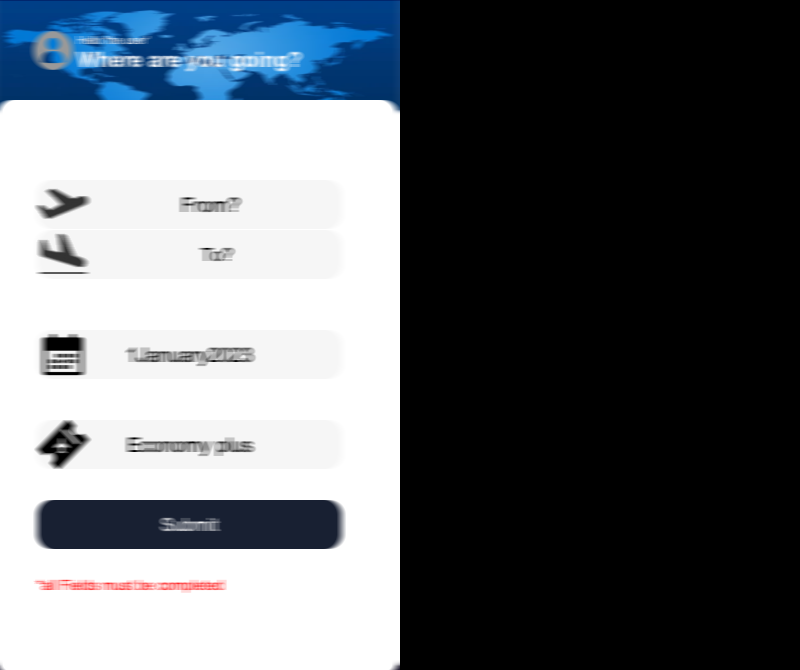
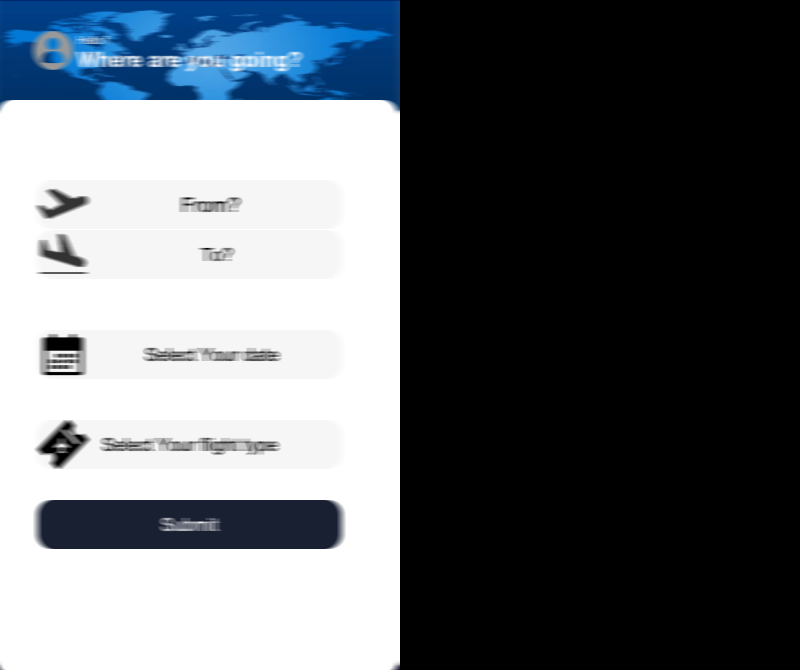
welcome menu added and bug fixed

diff --git a/src/app/UI/DateSelectMenu.java b/src/app/UI/DateSelectMenu.java
@@ -46,13 +46,15 @@ public class DateSelectMenu extends JPanel {
         datePanel.setBounds(0, (firstMenu.getHeight() / 10) * 7, firstMenu.getWidth(), (firstMenu.getHeight() / 10) * 3);
         datePanel.setLayout(null);
         // day top button
-        RoundedButton topDay = new RoundedButton("⬆", new Color(0xf6f6f6), Color.black, 21);
+        RoundedButton topDay = new RoundedButton("⬆",30, new Color(0xf6f6f6), Color.black, 21);
         topDay.setBounds(0, 10, (firstMenu.getWidth() / 3)-8, (datePanel.getHeight() / 3) - 28);
         topDay.addActionListener(new ActionListener() {
             @Override
             public void actionPerformed(ActionEvent e) {
-                if (day<31) day++;
-                else day=1;
+                if((month ==3||month ==5||month ==8||month ==10)&&day>=30)day=1;
+                else if ((month==1)&&day>=28)day=1;
+                else if ((month==0||month==2||month==4||month==6||month==7||month==9||month==11)&&day>=31)day=1;
+                else day++;
                 dayLabel.setText(String.valueOf(day));
 
             }
@@ -65,27 +67,33 @@ public class DateSelectMenu extends JPanel {
         dayLabel.setBounds(0,  (datePanel.getHeight() / 3)- 14, (firstMenu.getWidth() / 3)-8, (datePanel.getHeight() / 3) - 28);
         datePanel.add(dayLabel);
         // day bot button
-        RoundedButton botDay = new RoundedButton("⬇", new Color(0xf6f6f6), Color.black, 21);
+        RoundedButton botDay = new RoundedButton("⬇",30, new Color(0xf6f6f6), Color.black, 21);
         botDay.setBounds(0,  (datePanel.getHeight() / 3)*2- 42, (firstMenu.getWidth() / 3)-8 , (datePanel.getHeight() / 3) - 28);
         botDay.addActionListener(new ActionListener() {
             @Override
             public void actionPerformed(ActionEvent e) {
-                if (day>1) day--;
-                else day=31;
+                if((month ==3||month ==5||month ==8||month ==10)&&day==1)day=30;
+                else if ((month==1)&&day==1)day=28;
+                else if ((month==0||month==2||month==4||month==6||month==7||month==9||month==11)&&day==1)day=31;
+                else day--;
                 dayLabel.setText(String.valueOf(day));
             }
         });
         datePanel.add(botDay);
 
         // month top button
-        RoundedButton topMonth = new RoundedButton("⬆", new Color(0xf6f6f6), Color.black, 21);
+        RoundedButton topMonth = new RoundedButton("⬆",30, new Color(0xf6f6f6), Color.black, 21);
         topMonth.setBounds((firstMenu.getWidth() / 3)+4, 10, (firstMenu.getWidth() / 3)-8, (datePanel.getHeight() / 3) - 28);
         topMonth.addActionListener(new ActionListener() {
             @Override
             public void actionPerformed(ActionEvent e) {
                 if (month<11) month++;
                 else month=0;
+                if((month ==3||month ==5||month ==8||month ==10)&&day>30)day=30;
+                else if ((month==1)&&day>28)day=28;
+                else if ((month==0||month==2||month==4||month==6||month==7||month==9||month==11)&&day>31)day=31;
                 monthLabel.setText(months[month]);
+                dayLabel.setText(String.valueOf(day));
 
             }
         });
@@ -97,20 +105,24 @@ public class DateSelectMenu extends JPanel {
         monthLabel.setBounds((firstMenu.getWidth() / 3)+4,  (datePanel.getHeight() / 3)- 14, (firstMenu.getWidth() / 3)-8, (datePanel.getHeight() / 3) - 28);
         datePanel.add(monthLabel);
         // month bot button
-        RoundedButton botMonth = new RoundedButton("⬇", new Color(0xf6f6f6), Color.black, 21);
+        RoundedButton botMonth = new RoundedButton("⬇",30, new Color(0xf6f6f6), Color.black, 21);
         botMonth.setBounds((firstMenu.getWidth() / 3)+4,  (datePanel.getHeight() / 3)*2- 42, (firstMenu.getWidth() / 3)-8 , (datePanel.getHeight() / 3) - 28);
         botMonth.addActionListener(new ActionListener() {
             @Override
             public void actionPerformed(ActionEvent e) {
                 if (month>0) month--;
                 else month =11;
+                if((month ==3||month ==5||month ==8||month ==10)&&day>30)day=30;
+                else if ((month==1)&&day>28)day=28;
+                else if ((month==0||month==2||month==4||month==6||month==7||month==9||month==11)&&day>31)day=31;
                 monthLabel.setText(months[month]);
+                dayLabel.setText(String.valueOf(day));
             }
         });
         datePanel.add(botMonth);
 
         // year top button
-        RoundedButton topYear = new RoundedButton("⬆", new Color(0xf6f6f6), Color.black, 21);
+        RoundedButton topYear = new RoundedButton("⬆",30, new Color(0xf6f6f6), Color.black, 21);
         topYear.setBounds((firstMenu.getWidth() / 3)*2, 10, (firstMenu.getWidth() / 3)-8, (datePanel.getHeight() / 3) - 28);
         topYear.addActionListener(new ActionListener() {
             @Override
@@ -128,7 +140,7 @@ public class DateSelectMenu extends JPanel {
         yearLabel.setBounds((firstMenu.getWidth() / 3)*2,  (datePanel.getHeight() / 3)- 14, (firstMenu.getWidth() / 3)-8, (datePanel.getHeight() / 3) - 28);
         datePanel.add(yearLabel);
         // year bot button
-        RoundedButton botYear = new RoundedButton("⬇", new Color(0xf6f6f6), Color.black, 21);
+        RoundedButton botYear = new RoundedButton("⬇",30, new Color(0xf6f6f6), Color.black, 21);
         botYear.setBounds((firstMenu.getWidth() / 3)*2,  (datePanel.getHeight() / 3)*2- 42, (firstMenu.getWidth() / 3)-8 , (datePanel.getHeight() / 3) - 28);
         botYear.addActionListener(new ActionListener() {
             @Override
@@ -140,7 +152,7 @@ public class DateSelectMenu extends JPanel {
         datePanel.add(botYear);
 
         //submit button
-        RoundedButton submitButton = new RoundedButton("Submit", new Color(0x192032), Color.white, 21);
+        RoundedButton submitButton = new RoundedButton("Submit",30, new Color(0x192032), Color.white, 21);
         submitButton.setBounds((firstMenu.getWidth() / 3)+4,  (datePanel.getHeight() / 3)*2, (firstMenu.getWidth() / 3)-8 , (datePanel.getHeight() / 3) - 28);
         submitButton.addActionListener(new ActionListener() {
             @Override

diff --git a/src/app/UI/FirstMenu.java b/src/app/UI/FirstMenu.java
@@ -8,7 +8,6 @@ import java.awt.event.ActionListener;
 import java.awt.geom.RoundRectangle2D;
 import java.awt.image.BufferedImage;
 import java.io.File;
-import java.util.Objects;
 
 public class FirstMenu extends JFrame {
 
@@ -27,12 +26,13 @@ public class FirstMenu extends JFrame {
         }
     };
     JPanel headerLabel = new JPanel();
-    RoundedButton startButton = new RoundedButton("       From?", new Color(0xf6f6f6), Color.black, 20);
-    RoundedButton destinationButton = new RoundedButton("           To?", new Color(0xf6f6f6), Color.black, 18);
-    RoundedButton dateButton = new RoundedButton("         Select Your date", new Color(0xf6f6f6), Color.black, 18);
-    RoundedButton flightTypeButton = new RoundedButton("Select Your flight type", new Color(0xf6f6f6), Color.black, 18);
+    RoundedButton startButton = new RoundedButton("       From?",30, new Color(0xf6f6f6), Color.black, 20);
+    RoundedButton destinationButton = new RoundedButton("           To?",30, new Color(0xf6f6f6), Color.black, 18);
+    RoundedButton dateButton = new RoundedButton("         Select Your date",30, new Color(0xf6f6f6), Color.black, 18);
+    RoundedButton flightTypeButton = new RoundedButton("Select Your flight type",30, new Color(0xf6f6f6), Color.black, 18);
     JLabel error = new JLabel("");
-
+    String theUserName ;
+    JLabel welcome  = new JLabel("Hello ");
 
     public FirstMenu() {
         this.setTitle("Nizek Air");
@@ -43,6 +43,9 @@ public class FirstMenu extends JFrame {
         this.setVisible(true);
         this.setBackground(new Color(0x508bd0));
         this.setLayout(null);
+        mainPanel.setVisible(false);
+        headerLabel.setVisible(false);
+        this.add(new WelcomeMenu(this));
 
 
         ImageIcon placeHolder = new ImageIcon("assets/Placeholder.png");// PLace Holder
@@ -69,24 +72,17 @@ public class FirstMenu extends JFrame {
         headerIcon = new ImageIcon(newimgHeader);
 
 
-        Image image = placeHolder.getImage(); // transform it
-        Image newimg = image.getScaledInstance(49, 49, java.awt.Image.SCALE_SMOOTH); // scale it the smooth way
-        placeHolder = new ImageIcon(newimg);
-
-
         headerLabel.setBounds(0, 0, this.getWidth(), (this.getHeight() / 10) * 2);
         headerLabel.setBackground(new Color(0x508bd0));
         headerLabel.setForeground(Color.white);
         headerLabel.setLayout(null);
-
 
         // setup Pfp
         JLabel pfpLabel = new JLabel(pfpIcon);
         pfpLabel.setBounds(30, 25, 50, 50);
         headerLabel.add(pfpLabel);
         // welcome msg
-        JLabel welcome = new JLabel("Hello 'the user'");//TODO : add user name
-        welcome.setBounds(80, 30, 75, 20);
+        welcome.setBounds(80, 30, 150, 20);
         welcome.setForeground(Color.white);
         welcome.setFont(new Font("Arial", Font.PLAIN, 11));
         headerLabel.add(welcome);
@@ -186,7 +182,7 @@ public class FirstMenu extends JFrame {
         mainPanel.add(error);
 
 
-        RoundedButton submitButton = new RoundedButton("Submit", new Color(0x192032), Color.white, 18);
+        RoundedButton submitButton = new RoundedButton("Submit",30, new Color(0x192032), Color.white, 18);
         submitButton.setBounds(40, 400, 305, 50);
         submitButton.setForeground(Color.black);
         submitButton.addActionListener(new ActionListener() {

diff --git a/src/app/UI/WelcomeMenu.java b/src/app/UI/WelcomeMenu.java
@@ -1,0 +1,86 @@
+package app.UI;
+
+import javax.swing.*;
+import javax.swing.border.LineBorder;
+import java.awt.*;
+import java.awt.event.ActionEvent;
+import java.awt.event.ActionListener;
+import java.awt.event.MouseEvent;
+import java.awt.event.MouseListener;
+
+public class WelcomeMenu extends JPanel {
+    ImageIcon image = new ImageIcon("assets/airPlaneLogo.png");
+    RoundedTextField nameTextField = new RoundedTextField(20,60,Color.GRAY,Color.white,20){
+        @Override
+        protected void paintComponent(Graphics g) {
+            super.paintComponent(g);
+
+            if (getText().isEmpty() && !hasFocus()) {
+                Graphics2D g2 = (Graphics2D) g;
+                g2.setRenderingHint(RenderingHints.KEY_ANTIALIASING, RenderingHints.VALUE_ANTIALIAS_ON);
+                g2.setColor(Color.white);
+                g2.drawString("Enter your Name", getInsets().left, g.getFontMetrics().getAscent() + getInsets().top*4);
+            }
+        }
+    };
+
+
+    public WelcomeMenu(FirstMenu firstMenu) {
+        this.setLayout(null);
+        this.setBounds(0, 0, firstMenu.getWidth(), firstMenu.getHeight());
+        this.setVisible(true);
+        this.setBackground(Color.BLACK);
+        Image image1 = image.getImage(); // transform it
+        Image image2 = image1.getScaledInstance(firstMenu.getWidth(),image.getIconHeight(), java.awt.Image.SCALE_SMOOTH); // scale it the smooth way
+        image = new ImageIcon(image2);
+
+        RoundedButton submitButton = new RoundedButton("➡",60,Color.BLACK,Color.GRAY,21);
+        submitButton.setBounds(firstMenu.getWidth()-60,firstMenu.getHeight()/2+30,40,40);
+        submitButton.addActionListener(new ActionListener() {
+            @Override
+            public void actionPerformed(ActionEvent e) {
+                WelcomeMenu.this.setVisible(false);
+                firstMenu.theUserName = nameTextField.getText();
+                firstMenu.welcome.setText("Hello "+nameTextField.getText());
+                firstMenu.headerLabel.setVisible(true);
+                firstMenu.mainPanel.setVisible(true);
+            }
+        });
+        this.add(submitButton);
+
+
+        nameTextField.setBounds(10,firstMenu.getHeight()/2+20,firstMenu.getWidth()-20,60);
+        nameTextField.setEnabled(false);
+        nameTextField.addMouseListener(new MouseListener() {
+            @Override
+            public void mouseClicked(MouseEvent e) {
+                nameTextField.setEnabled(true);
+            }
+
+            @Override
+            public void mousePressed(MouseEvent e) {
+            }
+
+            @Override
+            public void mouseReleased(MouseEvent e) {
+            }
+
+            @Override
+            public void mouseEntered(MouseEvent e) {
+            }
+
+            @Override
+            public void mouseExited(MouseEvent e) {
+            }
+        });;
+
+        this.add(nameTextField);
+
+
+    }
+    @Override
+    protected void paintComponent(Graphics g) {
+        super.paintComponent(g);
+        g.drawImage(image.getImage(), 0, this.getHeight()/2-image.getIconHeight(), null);
+    }
+}

diff --git a/src/app/UI/RoundedTextField.java b/src/app/UI/RoundedTextField.java
@@ -1,40 +1,44 @@
 package app.UI;
 
 import javax.swing.*;
+import javax.swing.border.Border;
+import javax.swing.border.LineBorder;
 import java.awt.*;
 import java.awt.geom.RoundRectangle2D;
+import java.security.cert.CertPath;
 
-public class RoundedButton extends JButton {
-
+public class RoundedTextField extends JTextField {
     private Color backgroundColor;
     private Color foregroundColor;
     private int cornerRadius;
 
-    public RoundedButton(String text,int cornerRadius,Color backgroundColor,Color foregroundColor, int fontSize) {
-        super(text);
-        this.backgroundColor =backgroundColor;
-        this.foregroundColor =foregroundColor;
+    public RoundedTextField(int columns,int cornerRadius, Color backgroundColor, Color foregroundColor, int fontSize) {
+        super(columns);
+        this.backgroundColor = backgroundColor;
+        this.foregroundColor = foregroundColor;
         this.cornerRadius = cornerRadius;
         this.setFont(new Font("Arial", Font.TRUETYPE_FONT, fontSize));
-        setContentAreaFilled(false);
-        setFocusPainted(false);
+        setOpaque(false);
+        setForeground(foregroundColor);
+        setCaretColor(foregroundColor);
+        setBorder(BorderFactory.createEmptyBorder(5, 10, 5, 10));
     }
 
     @Override
     protected void paintComponent(Graphics g) {
         Graphics2D g2 = (Graphics2D) g.create();
         g2.setRenderingHint(RenderingHints.KEY_ANTIALIASING, RenderingHints.VALUE_ANTIALIAS_ON);
+
         int width = getWidth();
         int height = getHeight();
         Shape shape = new RoundRectangle2D.Double(0, 0, width - 1, height - 1, cornerRadius, cornerRadius);
+
         g2.setColor(backgroundColor);
         g2.fill(shape);
-        g2.setColor(foregroundColor);
-        FontMetrics fontMetrics = g2.getFontMetrics();
-        int textX = (width - fontMetrics.stringWidth(getText())) / 2;
-        int textY = (height - fontMetrics.getHeight()) / 2 + fontMetrics.getAscent();
-        g2.drawString(getText(), textX, textY);
+        g2.setColor(backgroundColor);
+        g2.draw(shape);
+
+        super.paintComponent(g2);
         g2.dispose();
     }
-
 }

diff --git a/src/app/UI/SubmittedMenu.java b/src/app/UI/SubmittedMenu.java
@@ -51,14 +51,10 @@ public class SubmittedMenu extends JPanel {
 
     JPanel headerLabel = new JPanel();
     Random random = new Random();
-    String randomLetter = String.valueOf((char) (random.nextInt(26) + 'A'));
-    int randomNumber = random.nextInt(10);
-
 
     public SubmittedMenu(FirstMenu firstMenu) {
 
-        String randomFlightCode = String.valueOf((char) (random.nextInt(26) + 'A')) + (char) (random.nextInt(26) + 'A')
-                + "-" + random.nextInt(10) + random.nextInt(10) + random.nextInt(10);
+        String randomFlightCode = String.valueOf((char) (random.nextInt(26) + 'A')) + (char) (random.nextInt(26) + 'A') + "-" + random.nextInt(10) + random.nextInt(10) + random.nextInt(10);
         String randomGate = String.valueOf((char) (random.nextInt(26) + 'A')) + random.nextInt(10);
         String randomTerminal = String.valueOf(random.nextInt(10)) + random.nextInt(10);
         String randomSeatNumber = String.valueOf((char) (random.nextInt(26) + 'A')) + random.nextInt(10);
@@ -147,7 +143,7 @@ public class SubmittedMenu extends JPanel {
         name.setForeground(new Color(0xB2B0B0));
         mainPanel.add(name);
 
-        JLabel passenger = new JLabel("the user");//TODO : add user name
+        JLabel passenger = new JLabel(firstMenu.theUserName);
         passenger.setBounds(30, 195, 100, 40);
         passenger.setFont(new Font("Arial", Font.BOLD, 15));
         mainPanel.add(passenger);
@@ -242,7 +238,7 @@ public class SubmittedMenu extends JPanel {
         headerLabel.add(headerImage);
         this.add(headerLabel);
 
-        RoundedButton submitButton = new RoundedButton("Print the Ticket", new Color(0x192032), Color.white, 18);
+        RoundedButton submitButton = new RoundedButton("Print the Ticket",30, new Color(0x192032), Color.white, 18);
         submitButton.setBounds((this.getWidth() / 20), (this.getHeight() / 20) * 16 + 20, (this.getWidth() / 10) * 9, (this.getHeight() / 10));
         submitButton.addActionListener(new ActionListener() {
             @Override

diff --git a/src/app/UI/CitySelectMenu.java b/src/app/UI/CitySelectMenu.java
@@ -25,7 +25,7 @@ public class CitySelectMenu extends JPanel {
 
         ArrayList<String> citys = new ArrayList<>(defualtCitys);
         for (int i = 0; i < citys.size(); i++) {
-            RoundedButton city = new RoundedButton(citys.get(i), new Color(0xf6f6f6), Color.black, 20);
+            RoundedButton city = new RoundedButton(citys.get(i),30, new Color(0xf6f6f6), Color.black, 20);
             city.setBounds(40, firstMenu.headerLabel.getHeight() + (50 * i), 305, 50);
             city.setHorizontalAlignment(SwingConstants.CENTER);
             city.setVerticalAlignment(SwingConstants.CENTER);
@@ -60,7 +60,7 @@ public class CitySelectMenu extends JPanel {
         ArrayList<String> citys = new ArrayList<>(defualtCitys);
         citys.remove(firstButton);
         for (int i = 0; i < citys.size(); i++) {
-            RoundedButton city = new RoundedButton(citys.get(i), new Color(0xf6f6f6), Color.black, 20);
+            RoundedButton city = new RoundedButton(citys.get(i),30, new Color(0xf6f6f6), Color.black, 20);
             city.setBounds(40, firstMenu.headerLabel.getHeight() + (50 * i), 305, 50);
             city.setHorizontalAlignment(SwingConstants.CENTER);
             city.setVerticalAlignment(SwingConstants.CENTER);

diff --git a/src/app/UI/FlightTypeSelectMenu.java b/src/app/UI/FlightTypeSelectMenu.java
@@ -25,7 +25,7 @@ public class FlightTypeSelectMenu extends JPanel {
             flightTypeNames.add(flightType.getName());
         }
         for (int i = 0; i < flightTypeNames.size(); i++) {
-            RoundedButton flightType = new RoundedButton(flightTypeNames.get(i), new Color(0xf6f6f6), Color.black, 20);
+            RoundedButton flightType = new RoundedButton(flightTypeNames.get(i),30, new Color(0xf6f6f6), Color.black, 20);
             flightType.setBounds(40, firstMenu.headerLabel.getHeight() + (50 * i), 305, 50);
             flightType.setHorizontalAlignment(SwingConstants.CENTER);
             flightType.setVerticalAlignment(SwingConstants.CENTER);
